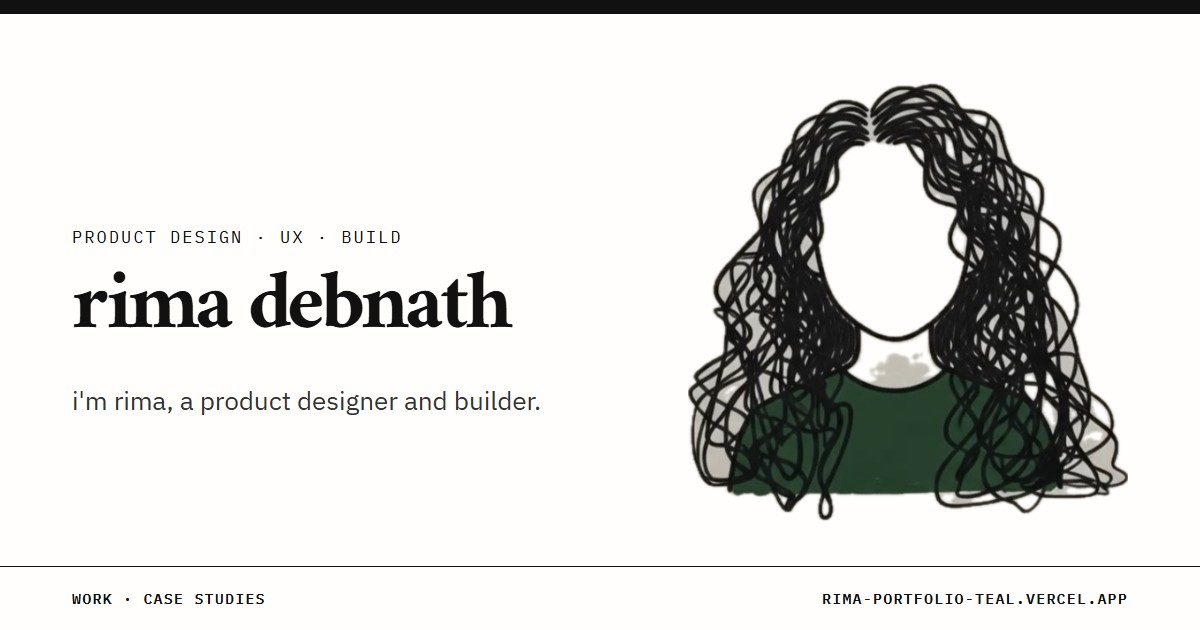
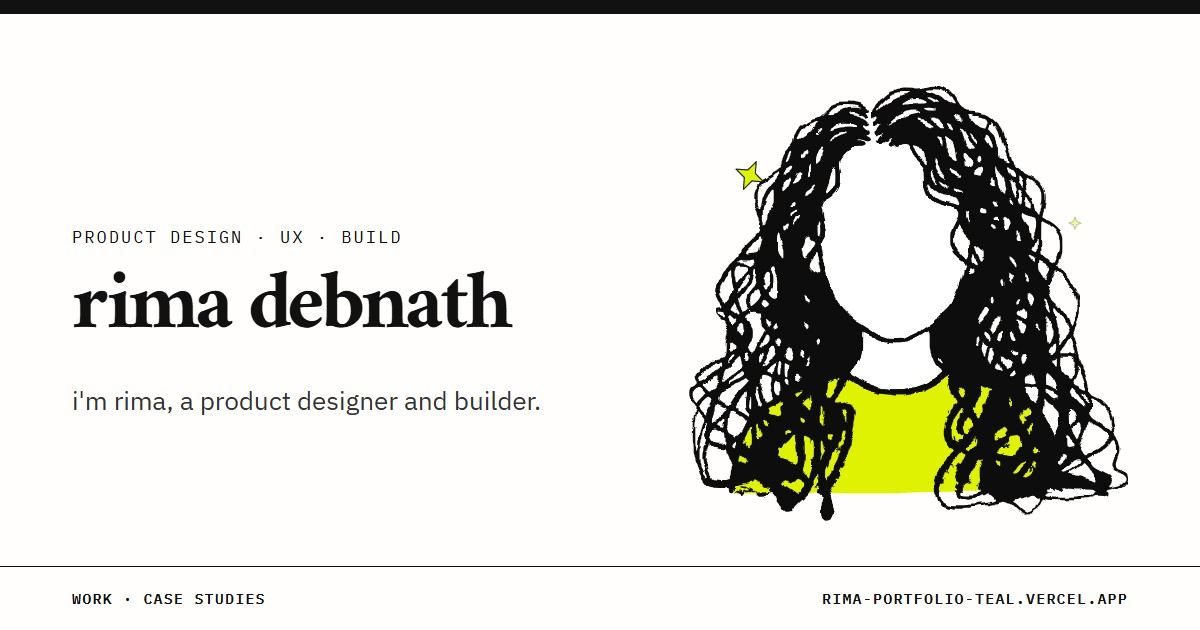
New animated hero illustration

Changed region(s): [[0.555, 0.1206, 0.9558, 0.8444]]

diff --git a/styles.css b/styles.css
@@ -230,30 +230,6 @@ a {
   z-index: 1;
 }
 
-.hero-illustration-hair,
-.hero-illustration-body {
-  z-index: 2;
-  will-change: transform;
-}
-
-.left-hair {
-  clip-path: polygon(0 0, 52% 0, 45% 100%, 0 100%);
-  transform-origin: 30% 18%;
-  animation: leftHairBreathe 4.6s ease-in-out infinite;
-}
-
-.right-hair {
-  clip-path: polygon(48% 0, 100% 0, 100% 100%, 54% 100%);
-  transform-origin: 72% 18%;
-  animation: rightHairBreathe 5.1s ease-in-out infinite;
-}
-
-.hero-illustration-body {
-  clip-path: polygon(16% 60%, 86% 60%, 88% 100%, 12% 100%);
-  transform-origin: 50% 82%;
-  animation: shoulderBreath 4.8s ease-in-out infinite;
-}
-
 .section-strip {
   display: grid;
   grid-template-columns: 1fr 1fr;
@@ -885,36 +861,6 @@ a {
     gap: 28px;
     padding-left: var(--page-pad);
     padding-right: var(--page-pad);
-  }
-}
-
-@keyframes leftHairBreathe {
-  0%,
-  100% {
-    transform: translate3d(0, 0, 0) rotate(0deg);
-  }
-  50% {
-    transform: translate3d(-2px, -2px, 0) rotate(-0.55deg);
-  }
-}
-
-@keyframes rightHairBreathe {
-  0%,
-  100% {
-    transform: translate3d(0, 0, 0) rotate(0deg);
-  }
-  50% {
-    transform: translate3d(2px, -2px, 0) rotate(0.55deg);
-  }
-}
-
-@keyframes shoulderBreath {
-  0%,
-  100% {
-    transform: translate3d(0, 0, 0) scale(1);
-  }
-  50% {
-    transform: translate3d(0, 2px, 0) scale(1.006);
   }
 }
 

diff --git a/index.html b/index.html
@@ -54,14 +54,8 @@
       </div>
 
       <div class="sketch-card reveal" aria-label="Hand drawn character illustration">
-        <img class="hero-illustration hero-illustration-base" src="assets/hero-rima-illustration.png"
-          alt="Hand drawn illustration of Rima with curly hair and a green top" width="512" height="512" fetchpriority="high" />
-        <img class="hero-illustration hero-illustration-hair left-hair" src="assets/hero-rima-illustration.png" alt=""
-          aria-hidden="true" width="512" height="512" />
-        <img class="hero-illustration hero-illustration-hair right-hair" src="assets/hero-rima-illustration.png" alt=""
-          aria-hidden="true" width="512" height="512" />
-        <img class="hero-illustration hero-illustration-body" src="assets/hero-rima-illustration.png" alt=""
-          aria-hidden="true" width="512" height="512" />
+        <img class="hero-illustration hero-illustration-base" src="assets/hero-rima.svg"
+          alt="Line drawing of Rima with long curly hair" width="512" height="512" fetchpriority="high" />
       </div>
     </section>
 
